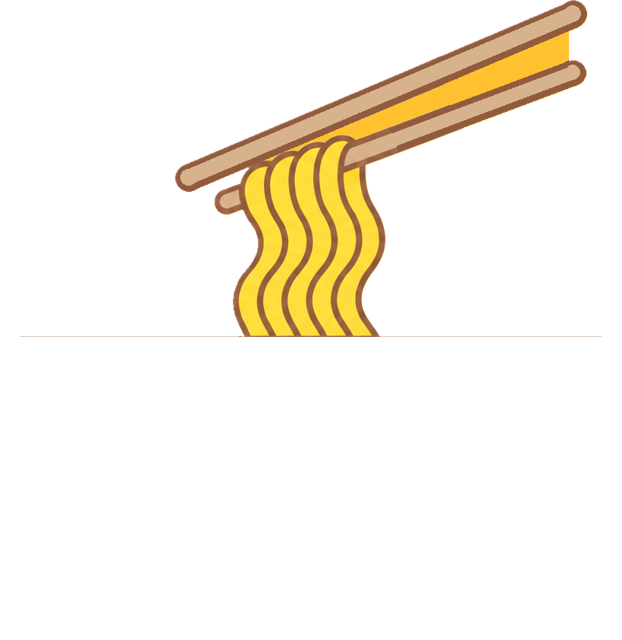
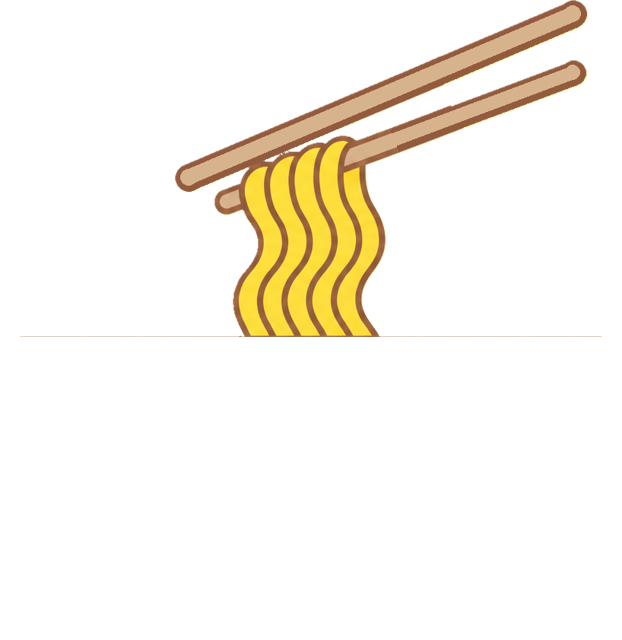
왼쪽 그릇 젓가락 사이를 투명하게 변경
Claude-Session: https://claude.ai/code/session_01CbUsKNLyFnUretAJwAocdo

Changed region(s): [[0.5193, 0.0312, 0.9164, 0.2188], [0.4277, 0.2188, 0.5193, 0.25]]

diff --git a/noodle-daejeon-festival/README.md b/noodle-daejeon-festival/README.md
@@ -45,7 +45,7 @@
 
 - 첫 화면 오른쪽 그릇을 김·반숙 달걀·어묵이 올라간 라멘 그릇 이미지로 교체 (`ramen-bowl.png`)
 - 첫 화면 양쪽 그릇 아래 그림자 제거
-- 왼쪽 빨간 그릇: "11.13 개막!" 배지 제거, 젓가락 길이 연장, 젓가락 사이를 은행잎 색으로 채움 (면발은 원래 색 유지), 김 물결선 제거
+- 왼쪽 빨간 그릇: "11.13 개막!" 배지 제거, 젓가락 길이 연장, 젓가락 사이를 비워 뒷배경이 보이게 함 (면발은 원래 색 유지), 김 물결선 제거
 - 첫 화면 양옆 천막·전구줄 제거, 오른쪽 위 은행나무 제거, 단풍나무 줄기를 땅까지 연결
 - 모션그래픽 추가
   - 첫 화면 타이틀 등장: 2026 → 누들대전축제 한 글자씩 → 밑줄 면발 → 날짜·시간·장소 (약 2초, 한 번)
